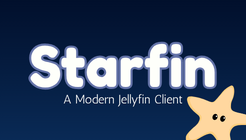
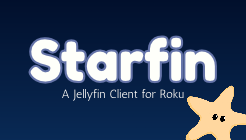
Updated splash and channel graphic tagline from "A modern Jellyfin client" to "A Jellyfin client for Roku". The "modern" bit was a tad pretentious on our part.

diff --git a/.to-do.md b/.to-do.md
@@ -21,6 +21,3 @@ Library drill down on library and playlist on thumbnail view
 # subtitles and jellyfin subtitle setting
 
 # update splash and channel graphics, drop the tag line
-
-# fix...
-play tv episode from home page, next button not enabled because we moved current/next season to jit
